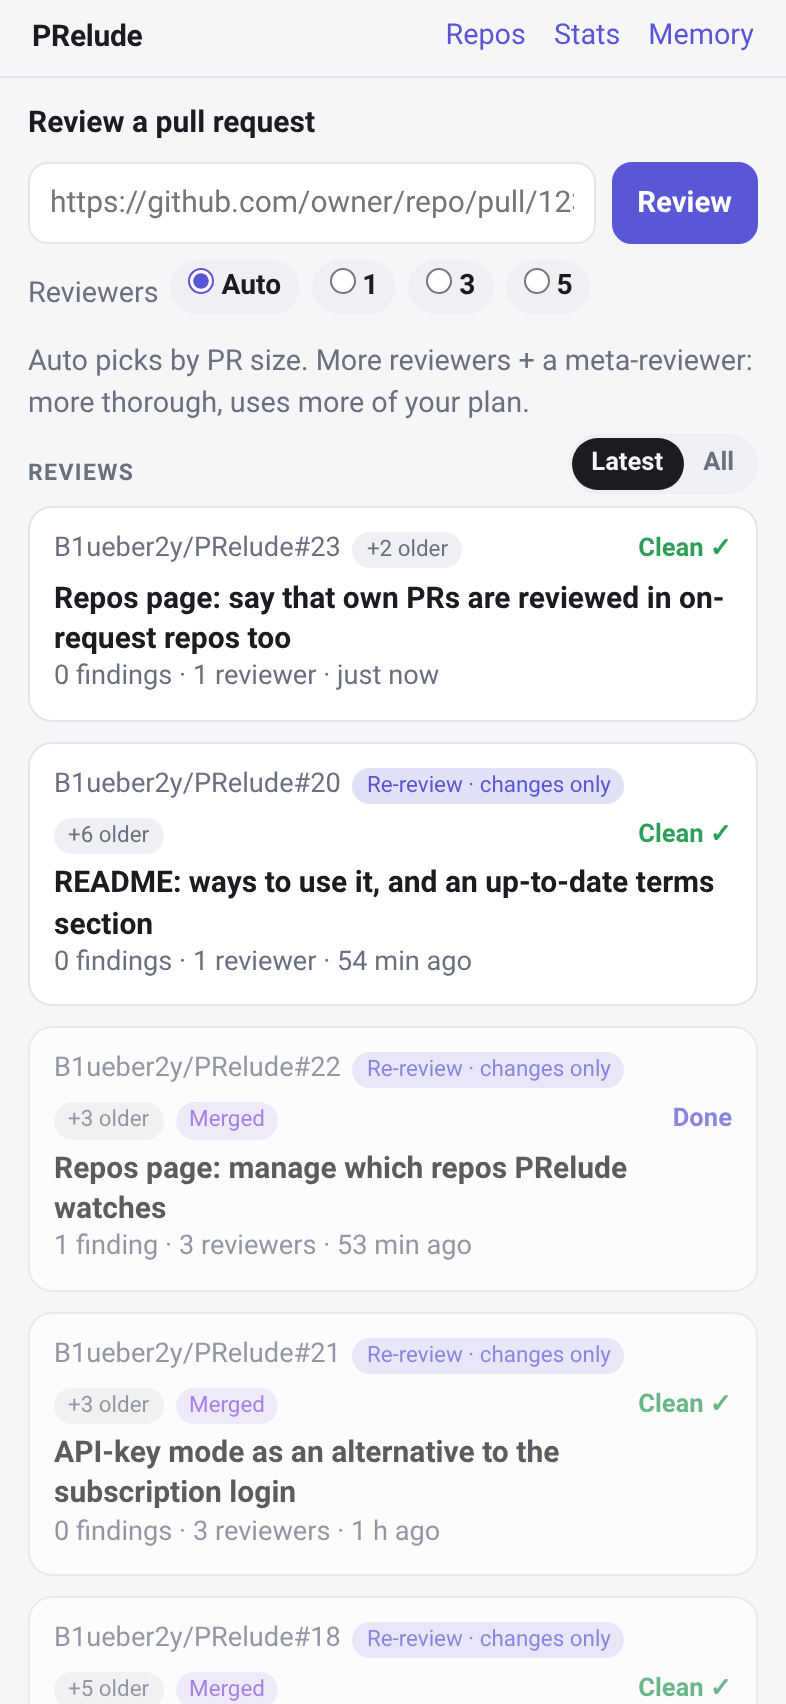
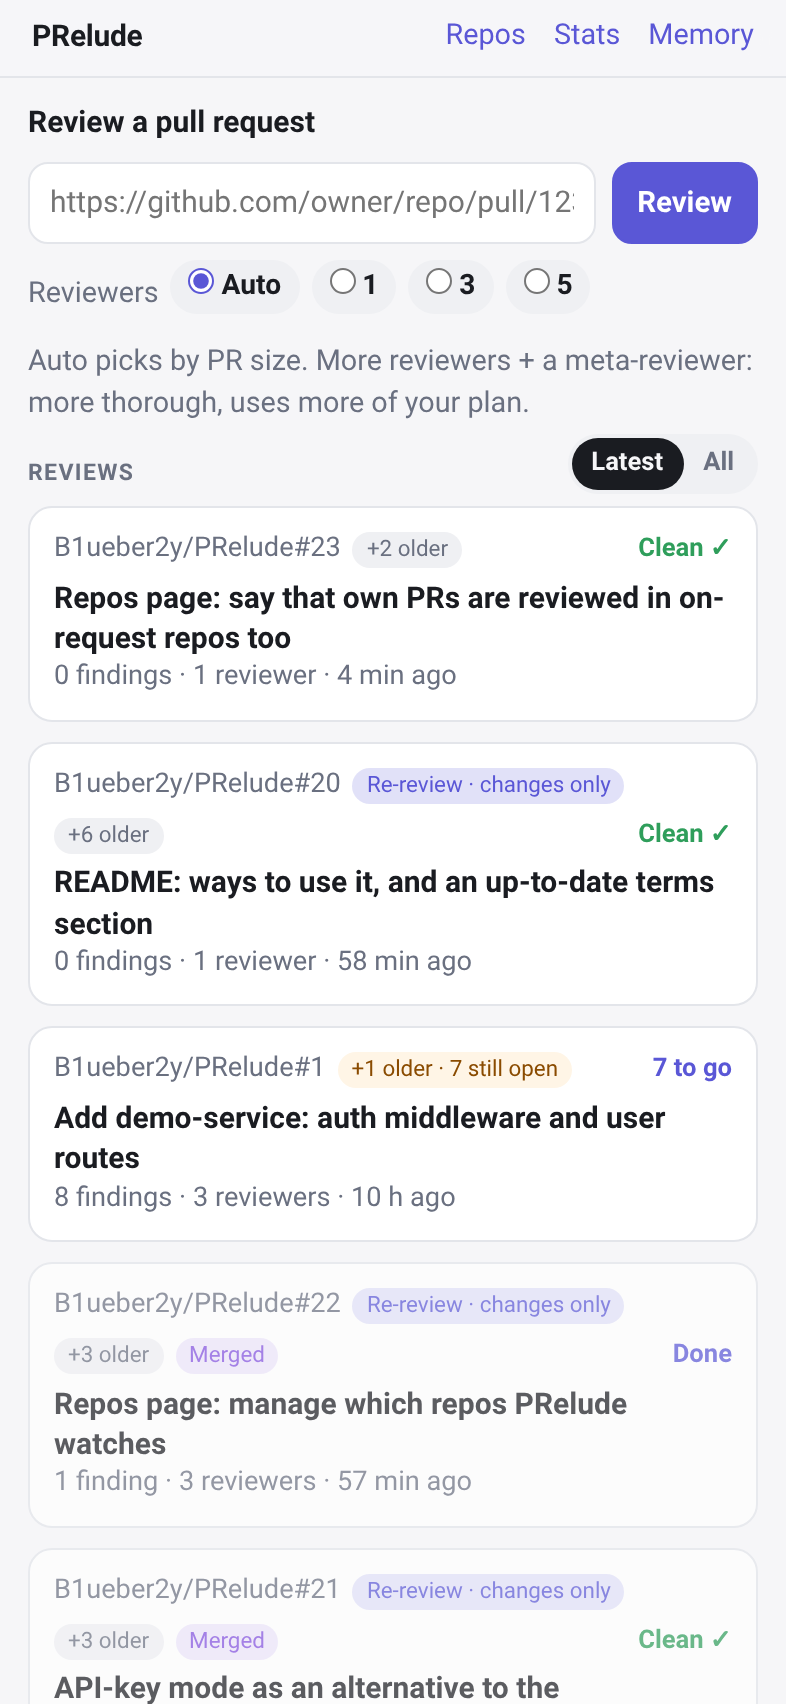
README: review list first, screenshots of the new review layout, triggers note
The screenshots show the layout from #24 (merge that first).

Claude-Session: https://claude.ai/code/session_01F1KXdeugb9CNkSQxchvPSr

diff --git a/README.md b/README.md
@@ -3,9 +3,9 @@
 **Review the AI review comments before they reach the author.**
 
 <p align="center">
+  <img src="docs/images/home.png" width="250" alt="The review list, one card per PR">
   <img src="docs/images/review.png" width="250" alt="A review: summary, actions and the first finding with its code">
   <img src="docs/images/finding.png" width="250" alt="One finding: the code, why Claude flagged it, and your wording">
-  <img src="docs/images/home.png" width="250" alt="The review list, one card per PR">
 </p>
 
 AI reviewers are good at finding problems and bad at knowing which ones matter to *you*.
@@ -48,9 +48,9 @@ PRelude fits wherever you'd want a careful second reviewer:
   more later with **+N**) and see which problems several reviewers found independently.
 - **Answer review requests faster.** When a colleague requests your review, a draft is
   waiting by the time you look; you keep, reword or drop each comment and submit.
-- **First pass on contributions to a project you maintain.** Add your repos on the
-  **Repos** page and PRelude prepares a review of each new PR; contributors only see what
-  you approved.
+- **First pass on contributions to a project you maintain.** Turn on `triggers`, add your
+  repos on the **Repos** page, and PRelude prepares a review of each new PR; contributors
+  only see what you approved.
 
 All of it works from the phone, or from the terminal (`prelude findings`, `prelude draft`,
 `prelude discard`, … see [Usage](#usage)).
